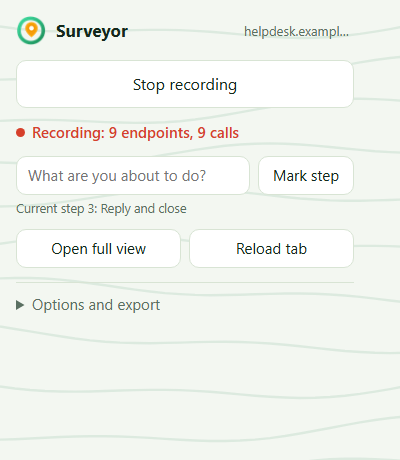
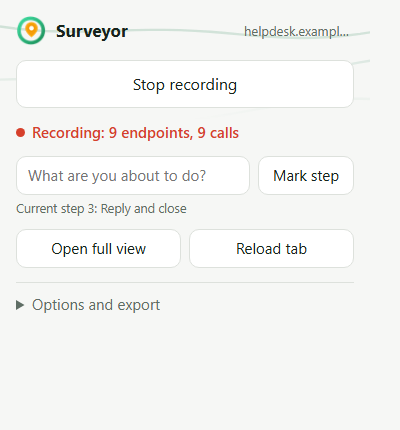
Calmer style: neutral surfaces, contour only in the header, amber as accent (header line, primary button, active tab)

diff --git a/styles.css b/styles.css
@@ -2,14 +2,14 @@
    Palette "contour": forest green on a soft sage base, amber for the map pin, red only for recording and errors. */
 :root {
   color-scheme: light dark;
-  --bg: #f3f7f1;
+  --bg: #f6f7f5;
   --surface: #ffffff;
-  --panel: #e8efe5;
-  --text: #14281c;
-  --muted: #5a7062;
-  --line: #d8e4d4;
+  --panel: #eceeeb;
+  --text: #17231c;
+  --muted: #5f6e65;
+  --line: #dde1dc;
   --accent: #17794a;
-  --accent-weak: #ddf1e6;
+  --accent-weak: #e7f2ec;
   --amber: #f59e0b;
   --amber-weak: #fff1d0;
   --danger: #d6402b;
@@ -36,14 +36,14 @@
 }
 @media (prefers-color-scheme: dark) {
   :root {
-    --bg: #0c1410;
-    --surface: #121c16;
-    --panel: #19261e;
+    --bg: #0f1311;
+    --surface: #151a17;
+    --panel: #1c221e;
     --text: #e3eee6;
     --muted: #8fa798;
-    --line: #25362b;
+    --line: #29312c;
     --accent: #46d192;
-    --accent-weak: #10301f;
+    --accent-weak: #14291f;
     --amber: #fbbf24;
     --amber-weak: #3a2c0a;
     --danger: #ff7a66;
@@ -74,9 +74,8 @@ button {
   background: var(--surface); cursor: pointer; transition: border-color .12s, background .12s;
 }
 button:hover { border-color: var(--accent); background: var(--accent-weak); }
-button.primary { background: var(--accent); border-color: var(--accent); color: #fff; font-weight: 600; }
-button.primary:hover { filter: brightness(1.12); background: var(--accent); }
-@media (prefers-color-scheme: dark) { button.primary { color: #05231a; } }
+button.primary { background: var(--amber); border-color: var(--amber); color: #2b1d00; font-weight: 700; }
+button.primary:hover { filter: brightness(.95); background: var(--amber); }
 button.danger { color: var(--danger); }
 button.danger:hover { border-color: var(--danger); background: var(--danger-weak); }
 button:disabled { opacity: .5; cursor: default; }

diff --git a/viewer.css b/viewer.css
@@ -152,3 +152,21 @@ header { background: var(--surface) var(--topo) 0 0 / 900px 360px repeat; }
   content: ''; position: absolute; left: 24px; top: 35px; height: calc(100% - 23px);
   border-left: 2px dashed color-mix(in srgb, var(--amber) 75%, transparent); pointer-events: none;
 }
+
+/* Calm version: flat surfaces, the contour pattern only in the header (fading out) and in empty states */
+#left { background: var(--surface); }
+#right { background: var(--bg); }
+header {
+  background: var(--surface); position: relative; overflow: hidden;
+  box-shadow: inset 0 -3px 0 var(--amber);
+}
+header > * { position: relative; }
+header::before {
+  content: ''; position: absolute; top: 0; right: 0; bottom: 0; left: 35%;
+  background: var(--topo) 0 0 / 900px 360px repeat;
+  -webkit-mask-image: linear-gradient(to left, #000 0%, transparent 100%);
+  mask-image: linear-gradient(to left, #000 0%, transparent 100%);
+  pointer-events: none;
+}
+.empty { background: var(--topo-soft) 50% 100% / 900px 360px repeat-x; padding-bottom: 96px; }
+.seg button.active { box-shadow: var(--shadow), inset 0 -2px 0 var(--amber); }

diff --git a/popup.html b/popup.html
@@ -7,7 +7,14 @@
 <link rel="stylesheet" href="styles.css">
 <style>
   body { width: 370px; padding: 16px; font-size: 15px; }
-  body { background: var(--bg) var(--topo-soft) 0 0 / 900px 360px repeat; }
+  body { position: relative; }
+  body > * { position: relative; }
+  body::before {
+    content: ''; position: absolute; top: 0; left: 0; right: 0; height: 120px;
+    background: var(--topo) 0 0 / 900px 360px repeat;
+    -webkit-mask-image: linear-gradient(to bottom, #000, transparent); mask-image: linear-gradient(to bottom, #000, transparent);
+    pointer-events: none;
+  }
   .top { display: flex; justify-content: space-between; align-items: center; gap: 10px; margin-bottom: 14px; }
   .brand { display: flex; align-items: center; gap: 10px; }
   .brand img { display: block; }
